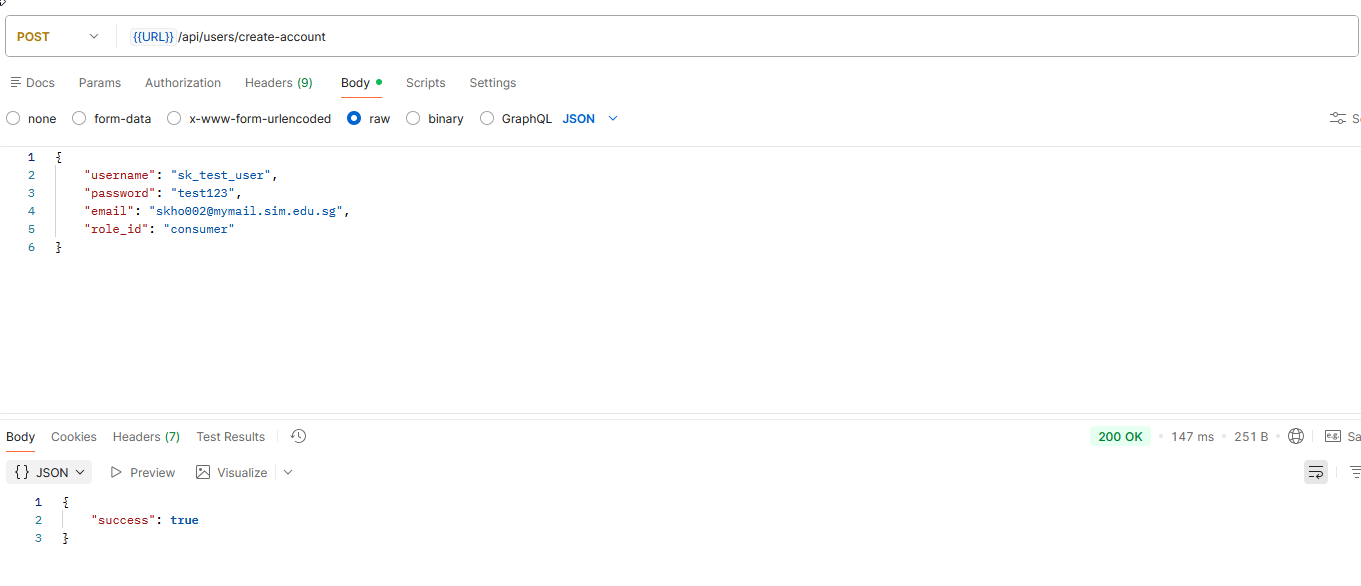
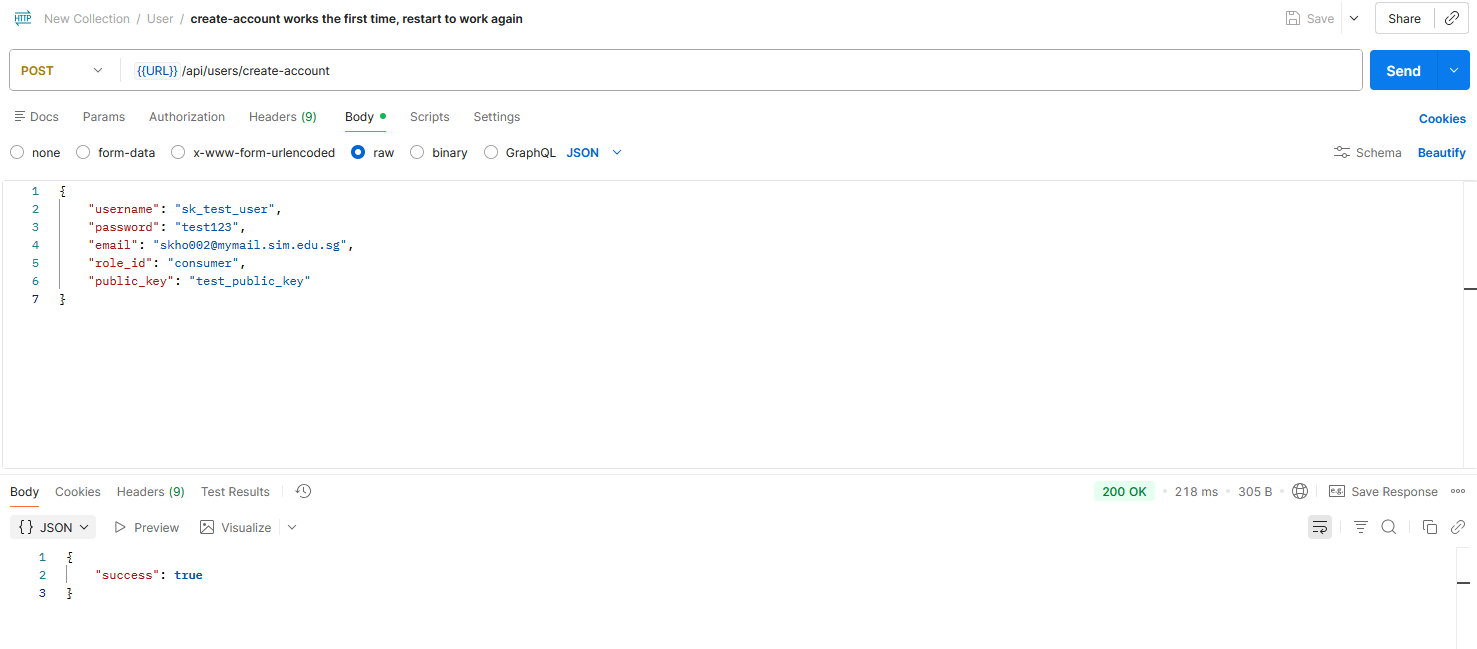
create account changed to accept public key from wallet

diff --git a/backend/src/controller/UserController.ts b/backend/src/controller/UserController.ts
@@ -12,80 +12,42 @@ class UserController {
   // ============================================================
   // ⚠ DEPRECATED - USES PRIVATE KEYS - DELETE AFTER TESTING ⚠
   // ============================================================
-  async createAccount(req: Request, res: Response){
-    try{
-      let key_pair = Keypair.generate();
-      let public_key = key_pair.publicKey.toBase58();
-      let private_key = bs58.encode(key_pair.secretKey);
-
-      // // TODO: Encryption
-      // let encrypted_email = await encrypt(req.body.email);
-      // let encrypted_password = await encrypt(req.body.password);
-      // let encrypted_private_key = await encrypt(private_key);
-
-      // await User.createAccount(
-      //   req.body.username,
-      //   encrypted_password,
-      //   encrypted_email,
-      //   req.body.role_id,
-      //   encrypted_private_key,
-      //   public_key
-      // );
-
-      // Prefer any explicitly provided public_key, else use generated one
-      const resolvedPublicKey = req.body.public_key ?? public_key;
-
-      await User.createAccount(
-        req.body.username,
-        req.body.password,
-        req.body.email,
-        req.body.role_id,
-        private_key,
-        resolvedPublicKey
-      );
-
-      res.json({
-        success: true
-      });
-
-    } catch(error: any){
-      res.status(500).json({
-        success: false,
-        error: 'Failed to create account',
-        details: error.message
-      })
-    }
-  }
-  // ============================================================
-  // ✅ UNCOMMENT BELOW WHEN DEPLOYING (no private key)
-  // ============================================================
   // async createAccount(req: Request, res: Response){
   //   try{
-  //
+  //     let key_pair = Keypair.generate();
+  //     let public_key = key_pair.publicKey.toBase58();
+  //     let private_key = bs58.encode(key_pair.secretKey);
+
   //     // // TODO: Encryption
   //     // let encrypted_email = await encrypt(req.body.email);
   //     // let encrypted_password = await encrypt(req.body.password);
-  //
+  //     // let encrypted_private_key = await encrypt(private_key);
+
   //     // await User.createAccount(
   //     //   req.body.username,
   //     //   encrypted_password,
   //     //   encrypted_email,
   //     //   req.body.role_id,
-  //     //   publicKey
+  //     //   encrypted_private_key,
+  //     //   public_key
   //     // );
-  //
+
+  //     // Prefer any explicitly provided public_key, else use generated one
+  //     const resolvedPublicKey = req.body.public_key ?? public_key;
+
   //     await User.createAccount(
   //       req.body.username,
   //       req.body.password,
   //       req.body.email,
   //       req.body.role_id,
-  //       req.body.public_key
+  //       private_key,
+  //       resolvedPublicKey
   //     );
-  //
+
   //     res.json({
   //       success: true
   //     });
-  //
+
   //   } catch(error: any){
   //     res.status(500).json({
   //       success: false,
@@ -94,6 +56,42 @@ class UserController {
   //     })
   //   }
   // }
+
+  async createAccount(req: Request, res: Response){
+    try{
+  
+      // // TODO: Encryption
+      // let encrypted_email = await encrypt(req.body.email);
+      // let encrypted_password = await encrypt(req.body.password);
+  
+      // await User.createAccount(
+      //   req.body.username,
+      //   encrypted_password,
+      //   encrypted_email,
+      //   req.body.role_id,
+      //   publicKey
+      // );
+  
+      await User.createAccount(
+        req.body.username,
+        req.body.password,
+        req.body.email,
+        req.body.role_id,
+        req.body.public_key
+      );
+  
+      res.json({
+        success: true
+      });
+  
+    } catch(error: any){
+      res.status(500).json({
+        success: false,
+        error: 'Failed to create account',
+        details: error.message
+      })
+    }
+  }
 
   async loginAccount(req: Request, res: Response){
     try{

diff --git a/backend/src/entities/User.ts b/backend/src/entities/User.ts
@@ -8,23 +8,24 @@ class UserEntity {
     // ⚠ DEPRECATED - USES PRIVATE KEYS - DELETE AFTER TESTING ⚠
     // ============================================================
     //  Create new account
-    static async createAccount(username: string, password: string, email: string, role_id: string, privateKey: string, publicKey: string)
-    : Promise<void>{
-        await pool.query(`
-            INSERT INTO users (username, password_hash, email, role_id, private_key, public_key, verified)
-            VALUES ($1, $2, $3, $4, $5, $6, $7)
-            `, [username, password, email, role_id, privateKey, publicKey, false]);
-    }
+    // static async createAccount(username: string, password: string, email: string, role_id: string, privateKey: string, publicKey: string)
+    // : Promise<void>{
+    //     await pool.query(`
+    //         INSERT INTO users (username, password_hash, email, role_id, private_key, public_key, verified)
+    //         VALUES ($1, $2, $3, $4, $5, $6, $7)
+    //         `, [username, password, email, role_id, privateKey, publicKey, false]);
+    // }
+
     // ============================================================
     // ✅ UNCOMMENT BELOW WHEN DEPLOYING (no private key)
     // ============================================================
-    // static async createAccount(username: string, password: string, email: string, role_id: string, publicKey: string)
-    // : Promise<void>{
-    //     await pool.query(`
-    //         INSERT INTO users (username, password_hash, email, role_id, public_key, verified)
-    //         VALUES ($1, $2, $3, $4, $5, $6)
-    //         `, [username, password, email, role_id, publicKey, false]);
-    // }
+    static async createAccount(username: string, password: string, email: string, role_id: string, publicKey: string)
+    : Promise<void>{
+        await pool.query(`
+            INSERT INTO users (username, password_hash, email, role_id, public_key, verified)
+            VALUES ($1, $2, $3, $4, $5, $6)
+            `, [username, password, email, role_id, publicKey, false]);
+    }
 
     // Login
     // Check username, password
